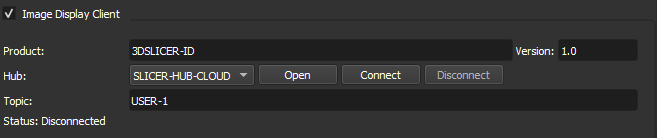
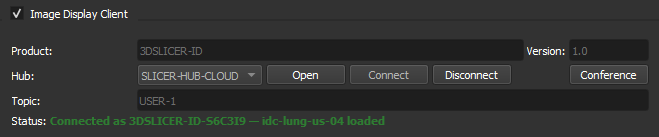
readme

diff --git a/CastInterface/cast_api/idc_index_service.py b/CastInterface/cast_api/idc_index_service.py
@@ -259,13 +259,28 @@ def resolve_study_series_files(
 
     org = str(organization or study_in.get("organization") or "").strip()
     open_mode = str(study_in.get("openMode") or "").strip().lower()
+    if not open_mode:
+        open_mode = OPEN_MODE_DICOMWEB
 
     if open_mode == OPEN_MODE_DICOMWEB:
         study = dict(study_in)
         if not str(study.get("dicomwebRoot") or "").strip():
             study["dicomwebRoot"] = IDC_DICOMWEB_ROOT
+        study["openMode"] = OPEN_MODE_DICOMWEB
         if org:
             study["organization"] = org
+        bucket = (
+            str(study_in.get("sourceBucket") or source_bucket).strip()
+            or source_bucket
+        )
+        try:
+            study = _attach_series_urls(study, bucket)
+        except ValueError as exc:
+            logger.warning(
+                "dicomweb resolve: direct files skipped for series=%s: %s",
+                series_uid,
+                exc,
+            )
         return {
             "source": "hub-idc-index",
             "action": ACTION_ADD_STUDY,

diff --git a/README.md b/README.md
@@ -35,12 +35,21 @@ You can test websocket subscription integration with the vtk-js IO module cast i
 
 The worklist example demonstrates:
 
-- **IDC Claude** — Build a personal IDC study worklist from natural-language queries; Claude and the idc-index run as a hub-connected resource server.
+- **IDC MCP server** — Build a personal IDC study worklist from natural-language queries.
 - **OHIF** — Open OHIF viewer instances that stay in sync with the worklist.
 - **VolView** — Open VolView instances that stay in sync with the worklist.
 - **Slim** — Open Slim instances that stay in sync with the worklist.
-- **Scene view** — Show each connected image display’s layout (including 3D slicer on same or remote hosts).
-- **Total Segmentator** — From OHIF or VolView, send an MR or CT study to TotalSegmentator and receive segmentation results (SEG or RTSTRUCT). Total segmentator is connected to the hub as a resource server.
+- **Scene views** — Show each connected image display’s layout (including 3D slicer on same or remote hosts): <a href="CastInterface/docs/images/sceneviews.png" target="_blank">
+  <img src="CastInterface/docs/images/sceneviews.png" alt="Scene views" width="200">
+</a>
+
+- **Total Segmentator** — From OHIF or VolView, send an MR or CT study to TotalSegmentator and receive segmentation results (SEG or RTSTRUCT). Total segmentator is connected to the hub as a resource server. <a href="CastInterface/docs/images/VolViewTotalSegmentator.png" target="_blank">
+  <img src="CastInterface/docs/images/VolViewTotalSegmentator.png" alt="Total Segmentator in VolView" width="200">
+</a>
+
+- **Conferencing** — From worklist, Slim, OHIF, VolView or 3D Slicer use the radio icon to start a conference: <a href="CastInterface/docs/images/conference-icon.png" target="_blank">
+  <img src="CastInterface/docs/images/conference-icon.png" alt="Conferencing" width="200">
+</a>
 
 
 Cast has a context/content sharing strategy and hub architecture that differs somewhat from FHIRcast, see description [here](CastInterface/docs/cast-description.md).
@@ -49,11 +58,11 @@ Cast has a context/content sharing strategy and hub architecture that differs so
 
 ## Extension Features
 
-The extension features a hub and two cast interfaces: one for connecting backend agents like TotalSegmentator or IDC Claude (Resource servers) and another one to connect the Slicer viewer (Image Display client) to the hub.
+The extension features a hub and two cast interfaces: one for connecting backend agents like Total Segmentator (Resource servers) and another one to connect the Slicer viewer (Image Display client) to the hub.
 
 
 #### Hub:
-The hub is the routing appliance that distributes the messages and handles the data transfer requests over the websocket connection to each client.
+The hub is the routing appliance that distributes the messages and handles the data transfer requests over the websocket to each client.  It allows clients to connect to each other through a single connection instead of developing mutiple interfaces.
 
 ![hub](CastInterface/docs/images/hub-ui.png)
 
@@ -67,25 +76,14 @@ It can be used without the slicer extension by running the "cast_api.py" script.
 Resource servers are agents that provide backend services to desktop integration. This allows users to, for example, view AI results without having to send them to the archive first.
 
 The resource server tab provides a visual description of how processing resources can be connected to the hub and made available to cast workflows.
-Here for example, in the VolView client:
-![Total Segmentator in VolView](CastInterface/docs/images/VolViewTotalSegmentator.png)
+
+![alt text](CastInterface/docs/images/ResourceServerFeature.png)
 
 
-Resource servers subscribe to all user topics for status-request and dicom/nifti events. They send binary results back to the user through the hub.
-In the default example, Total Segmentator and IDC Claude skill is used to provide the added functionality to the desktop integration. 
+Resource servers subscribe to all user topics for status-request and dicom/nifti events.
+In the example, Total Segmentator sends binary results back to the user through the hub.
 
 Since these resources do not log in as a user, they need a *resource server entry* in the customer's authorization server. This provides a client id and client secret. For the cast extension hub, they must be configured in the environment variables of the hub for the resource to connect successfully.
-
-
-![resource servers](CastInterface/docs/images/ResourceServerFeature.png)
-
-
-This video shows VolView using the TotalSegmentator extension with the "Resource Server" setup. The video shows the binary transfer through the hub to 3D Slicer, pauses during the segmentation calculation and restarts just before the segmentation is sent to VolView.
-
-
-<a href="https://www.youtube.com/watch?v=pHp5QpeH1JE">
-  <img src="CastInterface/docs/images/video_thumbnail_resourceserver.png" alt="Resource server" width="900">
-</a>
 
 
 
@@ -115,6 +113,9 @@ For the hub, the architecture provides a significantly reduced attack surface an
 After installation, the resource servers outbound ports can also be locked down, allowing access to the hub and sites needed by the resource only.
 
 In theory, the hub can be cloud deployed as a serverless application. In practice, many of those low-cost offerings do not support websocket services and a docker based offering is necessary like Azure WebApps or AWS Elastic Beanstalk.
+
+- **Cast hub on Azure App Service:** [azure-webapp.md](CastInterface/cast_api/azure-webapp.md)
+- **3D Slicer on Azure (Windows GPU VM + RDP):** [azure-slicer-gpu-readme.md](CastInterface/docs/azure-slicer-gpu-readme.md)
 
 For high availability deployment a hot standby configuration can be used. The "reset server" button in the hub admin portal allows testing workflow behavior during failover.
 
